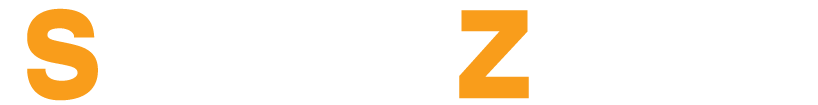
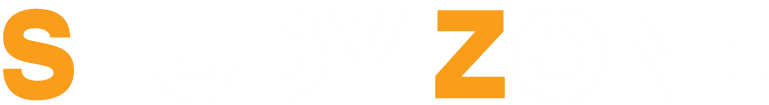
FIX: design

Changed region(s): [[0.0, 0.0857, 0.1248, 0.9714], [0.5618, 0.0857, 0.6554, 0.9429]]

diff --git a/resources/views/social_links/show.blade.php b/resources/views/social_links/show.blade.php
@@ -35,10 +35,9 @@
         <img src="{{ asset('images/new_logo.png') }}" alt="StudyZone Logo" class=" size-20">
 
         <!-- Right: Study Zone & City -->
-        <div class="text-right leading-tight">
-            <div class="text-white text-2xl font-black uppercase">
-                <span class="text-accent">STUDY</span> <span class="text-white">ZONE</span>
-            </div>
+        <div class="flex flex-col justify-end items-end leading-tight">
+            <img src="{{ asset('images/sz.png') }}" alt="StudyZone Logo" class="w-44">
+
             <div class="text-base text-white tracking-wide uppercase">
                 {{ strtoupper($city->name_en ?? $city->name) }}
             </div>
@@ -68,9 +67,12 @@
         @endif
     </div>
 
-    <footer class="text-center  relative ">
-        <span class="text-white text-xs font-thin ">A Project by:</span><br>
-        CHRISTIAN HOPE CENTER
+    <footer class="text-center leading-none  relative pb-4 ">
+        <span class="text-white text-xs font-light ">A Project by:</span>
+        <p>
+            CHRISTIAN HOPE CENTER
+        </p>
+
         <div class="fixed text-sm left-0 right-0 bottom-0 h-2.5 bg-accent"></div>
     </footer>
 </div>
